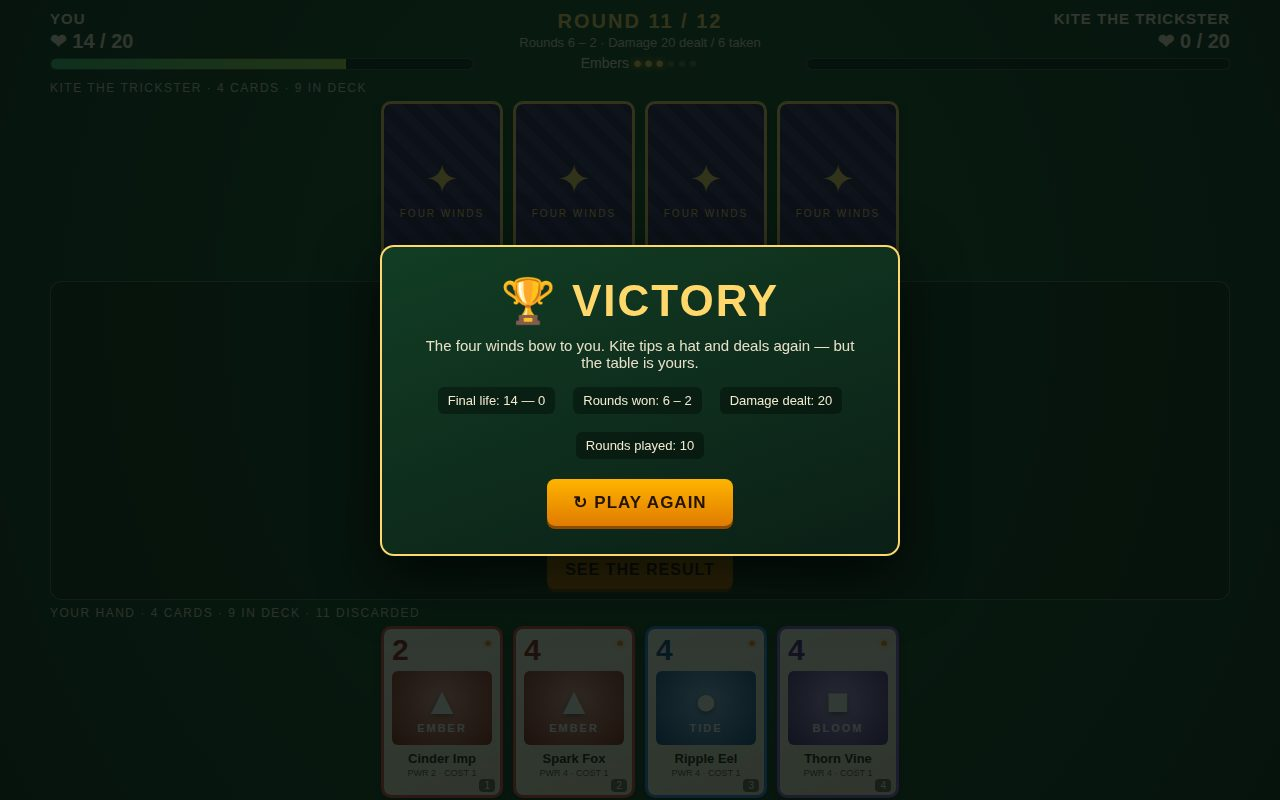
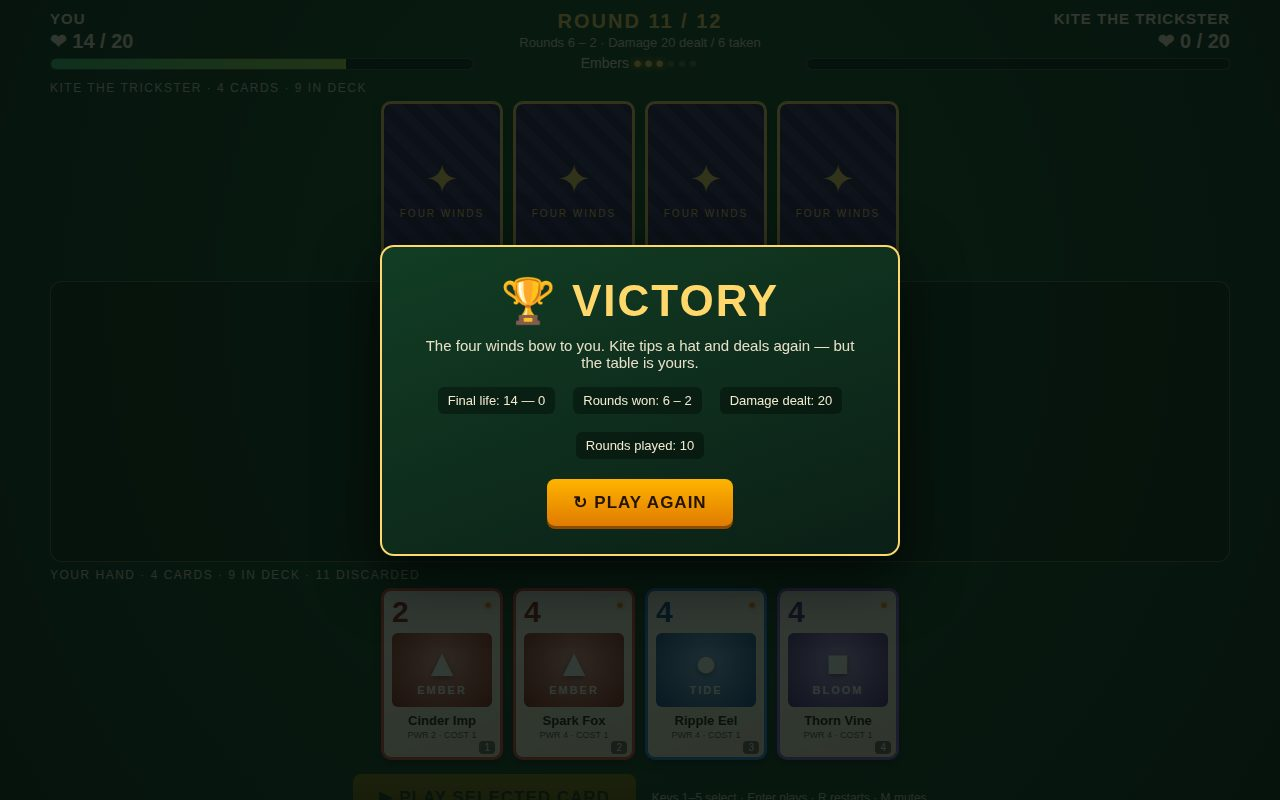
Add 4 real-render screenshots (title, clash, victory, defeat) + README shot modes

Changed region(s): [[0.2812, 0.875, 0.7188, 1.0], [0.2812, 0.7188, 0.7188, 0.8438]]

diff --git a/README.md b/README.md
@@ -51,9 +51,10 @@ sounds are synthesized with WebAudio.
 
 ## Screenshots
 
-`?shot=title`, `?shot=play&seed=7`, `?shot=win&seed=7` and `?shot=loss&seed=7`
+`?shot=title`, `?shot=clash&seed=7`, `?shot=win&seed=7` and `?shot=loss&seed=7`
 replay deterministic states of the game itself for the screenshots in
-`screenshots/`.
+`screenshots/` (title, a mid-duel clash with both cards face-up, the
+victory screen and the defeat screen).
 
 ## License
 
